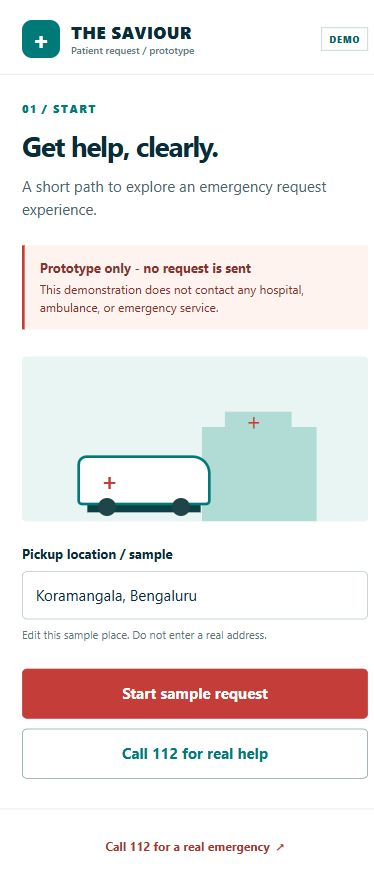
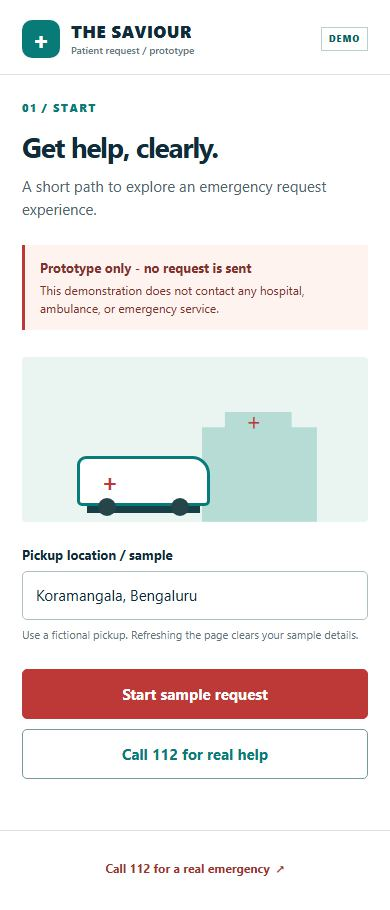
Refresh submission evidence for the revised prototype

diff --git a/task-03-mobile-prototype/EVALUATION.md b/task-03-mobile-prototype/EVALUATION.md
@@ -66,3 +66,16 @@ A Figma or Adobe XD source file was not created in this reevaluation. The brief 
 ## Deployment verification
 
 The existing Vercel project was redeployed to production and reported READY. The public page was opened and its revised workflow checked. All five deployed web assets returned HTTP 200 and matched the local source byte for byte. The [deployment record](evidence/deployment.json) includes SHA-256 hashes; the [production browser record](evidence/production-browser.json) records the live no-response scenario and observed console output.
+
+## Submission evidence refresh · 20 November 2026
+
+The start screen explains when the sample draft clears. Failed send and waiting for a response have distinct headings and explanations, with retained details in the recovery flow.
+
+The screenshots below were recaptured from the revised prototype. Earlier evidence files are historical.
+
+- [01-desktop-start.jpg](evidence/01-desktop-start.jpg)
+- [04-mobile-failure.jpg](evidence/04-mobile-failure.jpg)
+- [05-mobile-recorded.jpg](evidence/05-mobile-recorded.jpg)
+- [06-mobile-no-response.jpg](evidence/06-mobile-no-response.jpg)
+- [08-mobile-start.jpg](evidence/08-mobile-start.jpg)
+- [11-small-mobile-start.jpg](evidence/11-small-mobile-start.jpg)
